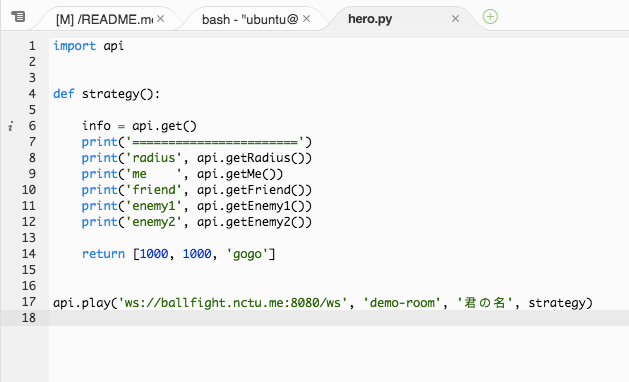
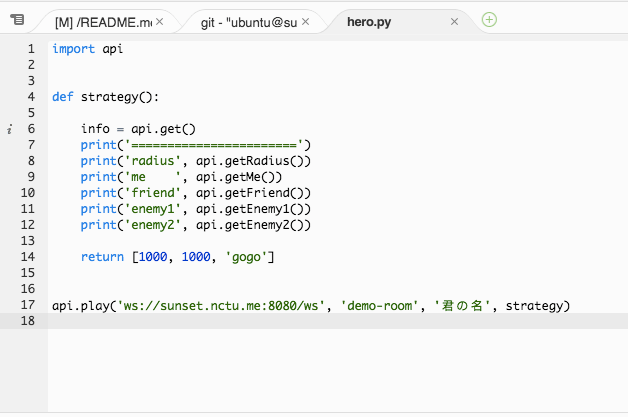
Update spec

diff --git a/README.md b/README.md
@@ -47,18 +47,10 @@
     - `broker url`：代理人(broker)的網址，為負責將資料送到正確的地方的中央伺服器
     - `room name`：這個競技場的房間名
 
-> FYI  
+> 注意  
 > 一個 room 在手機，競技場，hero 進行遊戲時，伺服器的網路負擔約為進出各 5KB/s  
+> 建議不要使用手機計費網路進行  
 
-> FYI  
-> 為何需要一個中央伺服器當代理人 (broker) 呢？  
-> 因為正常的家用電腦通常只作為客戶端 (client) 使用，瀏覽器更是一個客戶端 (client) 的程式  
-> 所以正常來說妳的電腦只能『主動』向外發出請求 (request) 說『請給我這個網頁』『我要這個檔案，請給我下載』  
-> 但是無法像伺服器 (server) 『被動』的接受上面的這些 request  
-> 就算妳用妳的電腦架好了伺服器，也很可能被其他防火牆擋下來  
-> 如：連上家用的無限路由器後，在沒做額外設定的情況下，家裡的路由器會把外面的請求擋在外面  
-> 所以這裡的解法如早期的 Skype，妳的 python script 及競技場的那個網頁會『主動』的跟中央伺服器建立連線  
-> 當妳的 python script 要傳資料給競技場網頁時，事實上會先送給中央伺服器，該伺服器再送給競技場
 
 
 ### 選擇角色
@@ -93,7 +85,7 @@ def strategy():
     return [1000, 1000, 'gogo']
 
 
-api.play('ws://demo-bf-sunset1995.c9users.io:8080/ws', 'demo-room', '君の名', strategy)
+api.play('ws://sunset.nctu.me:8080/ws', 'demo-room', '君の名', strategy)
 ```
 妳可以 `import` 所有妳需要用到的套件，此外一定要 `import api` 以進行連線與註冊妳的策略。  
 在函數 `strategy` 裡面實作妳的策略，透過 `api` 取得所有場面資訊然後回傳妳想要的施力大小。此函數當場面_狀態改變_時被呼叫。以下任一條件皆會造成_狀態改變_：  
